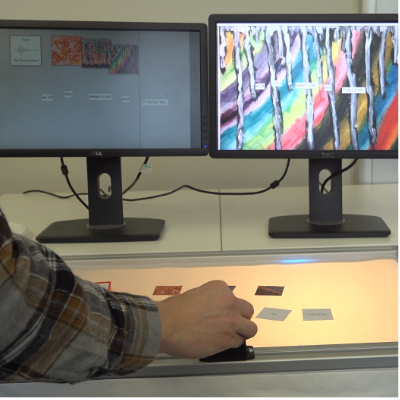
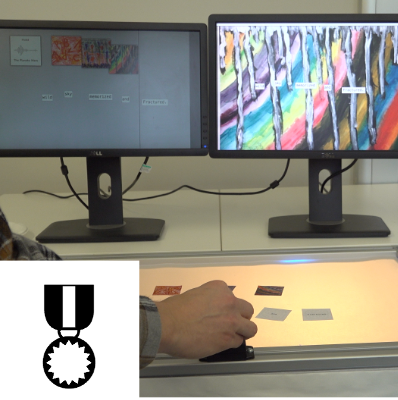
added hon mention for creatable

diff --git a/publications.html b/publications.html
@@ -106,7 +106,7 @@
       <p><center><img src="img/creatable-thumbnail.png" alt="A user interacting with CreaTable - a table-like computer with tangible objects which allow one to interact with digital content." style = "width:70%;"></center></p>
     </div>
     <div class="col-sm-8">
-		<span> <p class = "lead"><strong>Neate, T.</strong>,  Roper, A.,  Wilson, S.,  Marshall, J., Cruice, M. <a href="https://openaccess.city.ac.uk/id/eprint/23540/1/">CreaTable Content and Tangible Interaction in Aphasia</a>, <i>To appear in</i> Proceedings of the ACM Conference on Human Factors in Computing Systems (CHI), 2020. <a href="bibs/Neate2020-CreaTable.bib"> [Cite] </a> <a href="./videos.html#creatableVid">video</a></p></span>
+		<span> <p class = "lead"><strong>Neate, T.</strong>,  Roper, A.,  Wilson, S.,  Marshall, J., Cruice, M. <a href="https://openaccess.city.ac.uk/id/eprint/23540/1/">CreaTable Content and Tangible Interaction in Aphasia</a>, <i>To appear in</i> Proceedings of the ACM Conference on Human Factors in Computing Systems (CHI), 2020. <a href="bibs/Neate2020-CreaTable.bib"> [Cite] <i>Awarded Honourable Mention</i> </a> <a href="./videos.html#creatableVid">video</a></p></span>
     </div>
       <div class="col-sm-1">
      <h2><center>C14</center></h2> 
